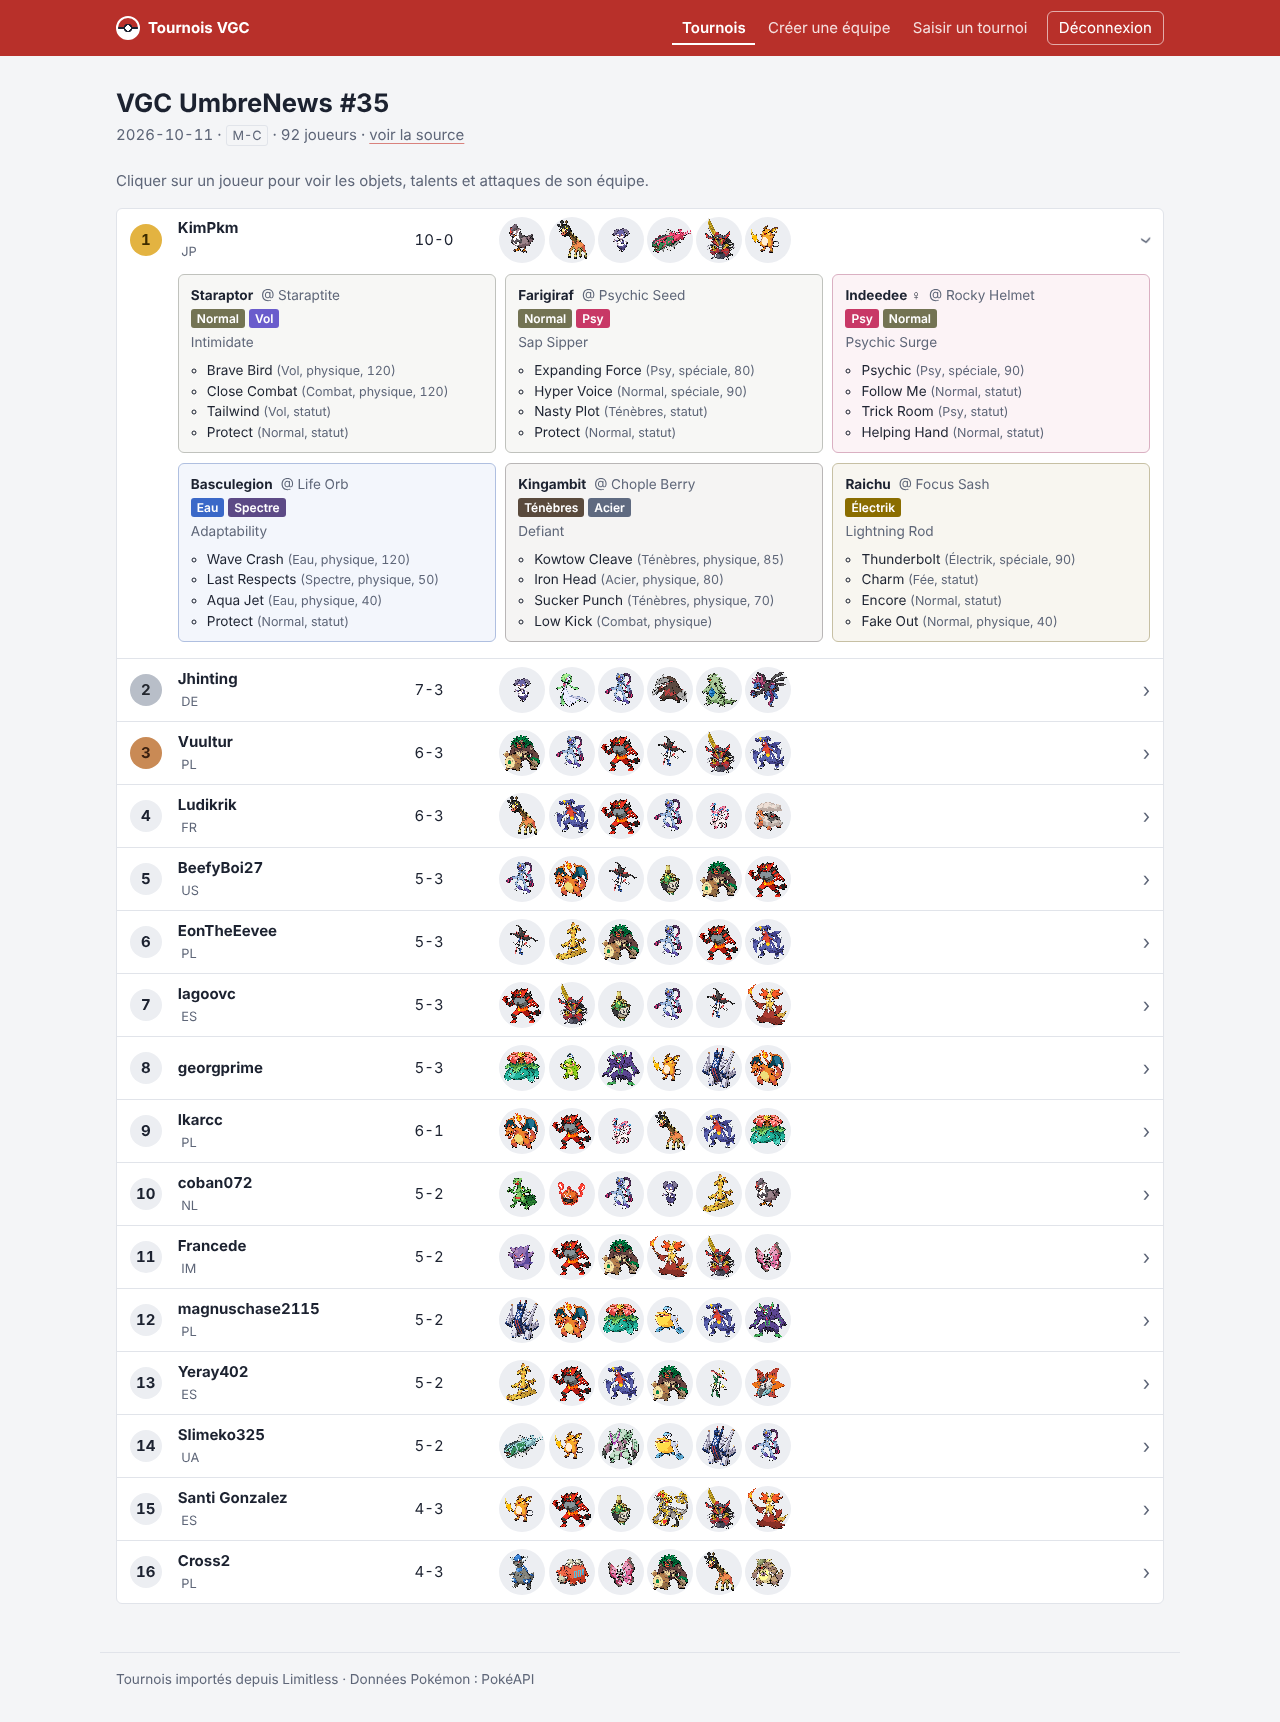
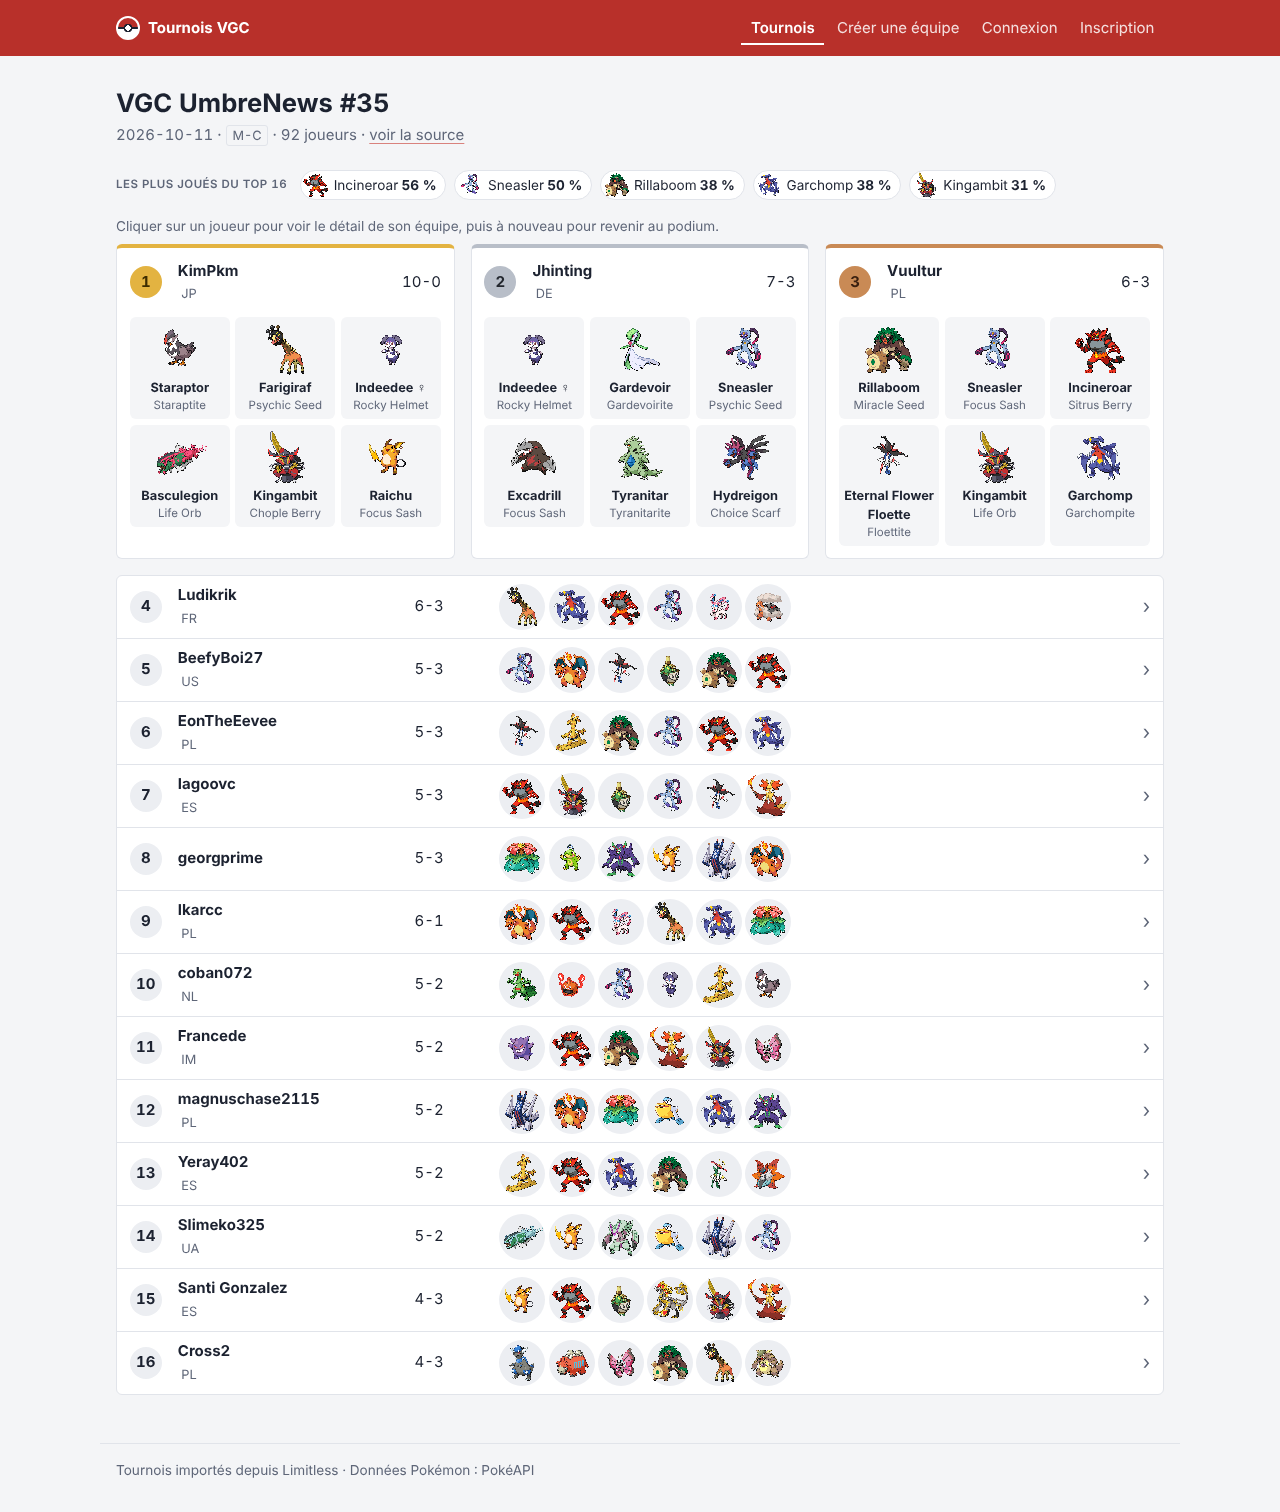
Page tournoi : podium en cartes, Pokémon les plus joués, sprite dans le détail
- Les trois premiers s'affichent en cartes (sprite, nom, objet) tant
  qu'aucun joueur n'est déplié ; en déplier un repasse en liste unique,
  le refermer revient au podium (CSS :has, sans JavaScript).
- Bande compacte des 5 Pokémon les plus joués (part des équipes
  publiées, un Pokémon compte une fois par équipe).
- Chaque fiche dépliée montre le sprite du Pokémon à côté de ses détails.

Claude-Session: https://claude.ai/code/session_01PQWKmLo6vMcy11LaXKiBe6

diff --git a/services/frontend/app/static/style.css b/services/frontend/app/static/style.css
@@ -80,7 +80,7 @@ main.inner { padding-block: 2rem 3rem; }
 
 /* Tableaux */
 /* Surfaces blanches bordées (tableaux, formulaires, classement) */
-.scroll, .panel, .standings { background: var(--surface); border: 1px solid var(--line); border-radius: var(--radius); }
+.scroll, .panel, .podium, .standings { background: var(--surface); border: 1px solid var(--line); border-radius: var(--radius); }
 .scroll { overflow-x: auto; }
 table { width: 100%; border-collapse: collapse; }
 th, td { padding: 0.55rem 0.8rem; border-bottom: 1px solid var(--line); text-align: left; vertical-align: middle; }
@@ -131,22 +131,45 @@ fieldset label { flex-direction: row; align-items: center; gap: 0.5rem; font-wei
 .flag { vertical-align: -1px; border-radius: 2px; }
 
 /* Classement d'un tournoi : une ligne par joueur, le détail des équipes se déplie */
-.standings { list-style: none; margin: 0; padding: 0; }
-.standings > li { border-bottom: 1px solid var(--line); }
-.standings > li:last-child { border-bottom: 0; }
-.standings summary, .standings .row {
+.podium, .standings { list-style: none; margin: 0; padding: 0; }
+:is(.podium, .standings) > li { border-bottom: 1px solid var(--line); }
+:is(.podium, .standings) > li:last-child { border-bottom: 0; }
+:is(.podium, .standings) :is(summary, .row) {
   display: grid; grid-template-columns: 2.2rem minmax(9rem, 14rem) 4.5rem 1fr 1rem; align-items: center; gap: 0.8rem;
   padding: 0.5rem 0.8rem; list-style: none;
 }
-.standings summary { cursor: pointer; }
-.standings summary::-webkit-details-marker { display: none; }
-.standings summary::after { content: "›"; color: var(--muted); font-size: 1.2rem; transition: transform 0.15s; justify-self: end; }
-.standings details[open] summary::after { transform: rotate(90deg); }
-.standings summary:hover { background: color-mix(in srgb, var(--bg) 60%, var(--surface)); }
+.results summary { cursor: pointer; }
+.results summary::-webkit-details-marker { display: none; }
+.results summary::after { content: "›"; color: var(--muted); font-size: 1.2rem; transition: transform 0.15s; justify-self: end; }
+.results details[open] summary::after { transform: rotate(90deg); }
+.results summary:hover { background: color-mix(in srgb, var(--bg) 60%, var(--surface)); }
+.cards { display: none; }
+/* Dès qu'un joueur est déplié, podium et suite ne forment plus qu'une liste */
+.results:has(details[open]) .podium { border-bottom: 1px solid var(--line); border-radius: var(--radius) var(--radius) 0 0; }
+.results:has(details[open]) .podium + .standings { border-top: 0; border-radius: 0 0 var(--radius) var(--radius); }
+/* Sinon (vue par défaut) : les trois premiers en cartes avec leur équipe */
+.results:not(:has(details[open])) { display: flex; flex-direction: column; gap: 1rem; }
+.results:not(:has(details[open])) .podium { display: grid; grid-template-columns: repeat(3, minmax(0, 1fr)); gap: 1rem; background: none; border: 0; }
+.results:not(:has(details[open])) .podium > li { background: var(--surface); border: 1px solid var(--line); border-top: 4px solid var(--medal); border-radius: var(--radius); overflow: hidden; }
+.results:not(:has(details[open])) .podium :is(summary, .row) { grid-template-columns: 2.2rem 1fr auto; padding: 0.7rem 0.8rem; }
+.results:not(:has(details[open])) .podium summary::after,
+.results:not(:has(details[open])) .podium summary .roster { display: none; }
+.results:not(:has(details[open])) .podium .roster { grid-column: 1 / -1; }
+.results:not(:has(details[open])) .podium .cards { display: grid; grid-column: 1 / -1; grid-template-columns: repeat(3, minmax(0, 1fr)); gap: 0.35rem; }
+.cards > span { display: flex; flex-direction: column; align-items: center; padding: 0.3rem 0.2rem; border-radius: var(--radius); background: var(--bg); text-align: center; min-width: 0; }
+.cards strong { font-size: 0.8rem; overflow-wrap: anywhere; }
+.cards small { font-size: 0.72rem; color: var(--muted); overflow-wrap: anywhere; }
+.hint { margin: 0 0 0.5rem; font-size: 0.85rem; }
+/* Pokémon les plus joués : une seule bande de pastilles */
+.usage { display: flex; flex-wrap: wrap; align-items: center; gap: 0.35rem 0.5rem; margin: 0 0 1rem; font-size: 0.85rem; }
+.usage-title { font-size: 0.72rem; font-weight: 600; text-transform: uppercase; letter-spacing: 0.04em; color: var(--muted); margin-right: 0.3rem; }
+.usage > span:not(.usage-title) { display: inline-flex; align-items: center; gap: 0.2rem; padding: 0 0.55rem 0 0.1rem; border: 1px solid var(--line); border-radius: 999px; background: var(--surface); }
+.mini { image-rendering: pixelated; }
 .place {
   display: grid; place-items: center; width: 2rem; height: 2rem; border-radius: 50%;
   font-weight: 700; background: var(--head);
 }
+.p1 { --medal: var(--gold); } .p2 { --medal: var(--silver); } .p3 { --medal: var(--bronze); }
 .p1 .place { background: var(--gold); color: #3d2c00; }
 .p2 .place { background: var(--silver); color: #23272e; }
 .p3 .place { background: var(--bronze); color: #3a2010; }
@@ -159,7 +182,9 @@ fieldset label { flex-direction: row; align-items: center; gap: 0.5rem; font-wei
 
 .sets { display: grid; grid-template-columns: repeat(auto-fill, minmax(15rem, 1fr)); gap: 0.6rem; padding: 0.2rem 0.8rem 1rem 3.8rem; }
 :where(.mon) { --t: var(--muted); } /* teinte par défaut, la classe t-<type> l'emporte */
-.mon { border: 1px solid color-mix(in srgb, var(--t) 30%, var(--line)); background: color-mix(in srgb, var(--t) 6%, var(--surface)); border-radius: var(--radius); padding: 0.6rem 0.75rem; font-size: 0.85rem; display: flex; flex-direction: column; gap: 0.25rem; }
+.mon { border: 1px solid color-mix(in srgb, var(--t) 30%, var(--line)); background: color-mix(in srgb, var(--t) 6%, var(--surface)); border-radius: var(--radius); padding: 0.6rem 0.75rem; font-size: 0.85rem; display: flex; align-items: flex-start; gap: 0.6rem; }
+.mon-sprite { border-radius: 50%; background: color-mix(in srgb, var(--t) 12%, var(--surface)); }
+.mon-body { display: flex; flex-direction: column; gap: 0.25rem; min-width: 0; }
 .mon-head { display: flex; flex-wrap: wrap; align-items: baseline; gap: 0.2rem 0.5rem; }
 .moves { margin: 0.2rem 0 0; padding-left: 1rem; }
 .moves .meta { font-size: 0.78rem; }
@@ -199,7 +224,8 @@ fieldset label { flex-direction: row; align-items: center; gap: 0.5rem; font-wei
 form:has(input[value="winner"]:checked) .entry tbody tr:not(:first-child) { opacity: 0.35; }
 
 @media (max-width: 640px) {
-  .standings summary, .standings .row { grid-template-columns: 2rem 1fr auto 1rem; }
+  :is(.podium, .standings) :is(summary, .row) { grid-template-columns: 2rem 1fr auto 1rem; }
+  .results:not(:has(details[open])) .podium { grid-template-columns: 1fr; }
   .roster { grid-column: 2 / -1; grid-row: 2; }
   .roster span, .roster .sprite { width: 40px; height: 40px; } /* 6 sprites sur une ligne */
   .sets { padding-left: 0.8rem; }

diff --git a/services/frontend/app/templates/tournament.html b/services/frontend/app/templates/tournament.html
@@ -1,6 +1,6 @@
 {% extends "base.html" %}
 {% block title %}{{ t.name }}{% endblock %}
-{% macro row(s) %}
+{% macro row(s, card) %}
         <span class="place">{{ s.placement }}</span>
         {% set flag = s.country | flag %}
         <span class="player"><strong>{{ s.player }}</strong>{% if s.country %}<span class="country">{% if flag %}<img class="flag" src="{{ flag }}" alt="" width="16" loading="lazy"> {% endif %}{{ s.country }}</span>{% endif %}</span>
@@ -12,6 +12,40 @@
           <em class="meta">équipe non publiée par l'organisateur</em>
         {% endfor %}
         </span>
+        {% if card and s.team %}
+        <span class="cards">
+        {% for p in s.team %}
+          <span>{% if p.sprite %}<img class="sprite big" src="{{ p.sprite }}" alt="" width="56" height="56" loading="lazy">{% endif %}<strong>{{ p.name }}</strong>{% if p.item %}<small>{{ p.item }}</small>{% endif %}</span>
+        {% endfor %}
+        </span>
+        {% endif %}
+{% endmacro %}
+{% macro player(s, card=false) %}
+  <li{% if s.placement and s.placement <= 3 %} class="p{{ s.placement }}"{% endif %}>
+  {% if s.team %}
+    {# name : un seul joueur déplié à la fois (navigateurs récents) #}
+    <details name="joueur">
+      <summary>{{ row(s, card) }}</summary>
+      <div class="sets">
+      {% for p in s.team %}
+        <div class="mon{% if p.types %} t-{{ p.types[0] }}{% endif %}">
+          {% if p.sprite %}<img class="sprite mon-sprite" src="{{ p.sprite }}" alt="" width="64" height="64" loading="lazy">{% endif %}
+          <div class="mon-body">
+          <div class="mon-head"><strong>{{ p.name }}</strong>{% if p.item %} <span class="item">@ {{ p.item }}</span>{% endif %}</div>
+          {% if p.types %}<div class="types">{% for ty in p.types %}<span class="type t-{{ ty }}">{{ ty | type_fr }}</span>{% endfor %}</div>{% endif %}
+          {% if p.ability %}<div class="ability">{{ p.ability }}</div>{% endif %}
+          {% if p.moves %}<ul class="moves">{% for m in p.moves %}
+            <li>{{ m.name }}{% if m.type %} <span class="meta">({{ m.type | type_fr }}, {{ m.category | category_fr }}{% if m.power %}, {{ m.power }}{% endif %})</span>{% endif %}</li>
+          {% endfor %}</ul>{% endif %}
+          </div>
+        </div>
+      {% endfor %}
+      </div>
+    </details>
+  {% else %}
+    <div class="row">{{ row(s, card) }}</div>
+  {% endif %}
+  </li>
 {% endmacro %}
 {% block content %}
 <h1>{{ t.name }}</h1>
@@ -19,30 +53,17 @@
   {{ t.date }} · <span class="tag">{{ t.format }}</span>{% if t.player_count %} · {{ t.player_count }} joueurs{% endif %}
   {% if t.source_url %} · <a href="{{ t.source_url }}">voir la source</a>{% endif %}
 </p>
-<p class="meta">Cliquer sur un joueur pour voir les objets, talents et attaques de son équipe.</p>
-<ol class="standings">
-{% for s in t.standings %}
-  <li{% if s.placement and s.placement <= 3 %} class="p{{ s.placement }}"{% endif %}>
-  {% if s.team %}
-    <details>
-      <summary>{{ row(s) }}</summary>
-      <div class="sets">
-      {% for p in s.team %}
-        <div class="mon{% if p.types %} t-{{ p.types[0] }}{% endif %}">
-          <div class="mon-head"><strong>{{ p.name }}</strong>{% if p.item %} <span class="item">@ {{ p.item }}</span>{% endif %}</div>
-          {% if p.types %}<div class="types">{% for ty in p.types %}<span class="type t-{{ ty }}">{{ ty | type_fr }}</span>{% endfor %}</div>{% endif %}
-          {% if p.ability %}<div class="ability">{{ p.ability }}</div>{% endif %}
-          {% if p.moves %}<ul class="moves">{% for m in p.moves %}
-            <li>{{ m.name }}{% if m.type %} <span class="meta">({{ m.type | type_fr }}, {{ m.category | category_fr }}{% if m.power %}, {{ m.power }}{% endif %})</span>{% endif %}</li>
-          {% endfor %}</ul>{% endif %}
-        </div>
-      {% endfor %}
-      </div>
-    </details>
-  {% else %}
-    <div class="row">{{ row(s) }}</div>
-  {% endif %}
-  </li>
-{% endfor %}
-</ol>
+{% if usage.top %}
+<p class="usage">
+  <span class="usage-title">Les plus joués du top {{ t.standings | length }}{% if usage.teams < t.standings | length %} ({{ usage.teams }} équipes publiées){% endif %}</span>
+  {% for u in usage.top %}<span>{% if u.sprite %}<img class="mini" src="{{ u.sprite }}" alt="" width="28" height="28" loading="lazy">{% endif %}{{ u.name }} <strong>{{ u.pct }} %</strong></span>{% endfor %}
+</p>
+{% endif %}
+{% set podium = t.standings | selectattr("placement", "in", [1, 2, 3]) | list %}
+{% set rest = t.standings | rejectattr("placement", "in", [1, 2, 3]) | list %}
+{% if podium %}<p class="meta hint">Cliquer sur un joueur pour voir le détail de son équipe, puis à nouveau pour revenir au podium.</p>{% endif %}
+<div class="results">
+  {% if podium %}<ol class="podium">{% for s in podium %}{{ player(s, true) }}{% endfor %}</ol>{% endif %}
+  {% if rest %}<ol class="standings">{% for s in rest %}{{ player(s) }}{% endfor %}</ol>{% endif %}
+</div>
 {% endblock %}

diff --git a/services/frontend/tests/test_pages.py b/services/frontend/tests/test_pages.py
@@ -141,6 +141,50 @@ def test_detail_affiche_le_classement_et_l_equipe(api):
     assert '<li class="p1">' in resp.text  # médaille d'or du 1er
     assert '<div class="mon t-normal">' in resp.text  # carte teintée par le 1er type
     assert resp.text.count('class="sprite"') == 1  # Indeedee n'a pas de sprite
+    assert resp.text.count('class="sprite mon-sprite"') == 1  # idem dans le détail
+    assert '<ol class="podium">' in resp.text  # le 1er est mis en avant en carte
+    assert '<ol class="standings">' not in resp.text  # personne d'autre
+    assert (
+        "Les plus joués du top 1" in resp.text and "<strong>100 %</strong>" in resp.text
+    )
+
+
+def test_usage_compte_les_equipes_connues():
+    mon = lambda n: {"name": n, "sprite": None}
+    standings = [
+        {"team": [mon("Incineroar"), mon("Rillaboom")]},
+        {"team": [mon("Incineroar")]},
+        {"team": []},  # équipe non publiée : ignorée
+        {},  # sans clé team
+    ]
+    u = main.usage(standings)
+    assert u["teams"] == 2
+    assert u["top"] == [
+        {"name": "Incineroar", "sprite": None, "pct": 100},
+        {"name": "Rillaboom", "sprite": None, "pct": 50},
+    ]
+    assert main.usage([{"team": []}]) == {"teams": 0, "top": []}
+    # doublon dans une équipe compté une fois ; premier sprite connu conservé
+    doublon = [{"team": [mon("Urshifu") | {"sprite": "u.png"}, mon("Urshifu")]}]
+    assert main.usage(doublon)["top"] == [
+        {"name": "Urshifu", "sprite": "u.png", "pct": 100}
+    ]
+
+
+def test_podium_puis_suite_du_classement(monkeypatch):
+    premier = TOURNAMENT["standings"][0]
+    cinq = [premier | {"placement": i, "player": f"J{i}"} for i in range(1, 5)]
+    abandon = premier | {"placement": None, "player": "Abandon", "team": []}
+    data = TOURNAMENT | {"standings": [*cinq, abandon]}
+    responses = {"http://api/api/tournaments/1?top=16": data}
+    monkeypatch.setattr(main.urllib.request, "urlopen", fake_urlopen(responses))
+    html = client.get("/tournaments/1").text
+    podium, suite = html.split('<ol class="standings">')
+    assert all(f"<strong>J{i}</strong>" in podium for i in (1, 2, 3))
+    assert "<strong>J4</strong>" in suite and "<strong>Abandon</strong>" in suite
+    assert '<img class="sprite big"' in podium and "<small>Staraptite</small>" in podium
+    assert '<img class="sprite big"' not in suite  # cartes réservées au podium
+    assert "Les plus joués du top 5 (4 équipes publiées)" in html
 
 
 def test_equipe_absente_est_signalee(monkeypatch):
@@ -151,7 +195,7 @@ def test_equipe_absente_est_signalee(monkeypatch):
     monkeypatch.setattr(main.urllib.request, "urlopen", fake_urlopen(responses))
     html = client.get("/tournaments/1").text
     assert "équipe non publiée" in html
-    assert "<details>" not in html  # rien à déplier
+    assert "<details" not in html  # rien à déplier
 
 
 def test_joueur_sans_place_ne_plante_pas(monkeypatch):

diff --git a/services/frontend/app/main.py b/services/frontend/app/main.py
@@ -3,6 +3,7 @@ import os
 import re
 import urllib.error
 import urllib.request
+from collections import Counter
 from pathlib import Path
 from typing import Annotated
 from urllib.parse import quote, urlencode, urlsplit
@@ -210,13 +211,27 @@ async def new_tournament(request: Request):
     return page(error_message(body), 422)
 
 
+def usage(standings: list[dict], limit: int = 5) -> dict:
+    """Pokémon les plus joués : part (en %) des équipes connues qui l'alignent."""
+    teams = [s.get("team") for s in standings if s.get("team")]
+    # set : un Pokémon compte une fois par équipe, la part ne dépasse jamais 100 %
+    counts = Counter(name for team in teams for name in {p["name"] for p in team})
+    sprites = {}
+    for p in (p for team in teams for p in team):
+        sprites[p["name"]] = sprites.get(p["name"]) or p.get("sprite")
+    top = [
+        {"name": n, "sprite": sprites[n], "pct": round(100 * c / len(teams))}
+        for n, c in counts.most_common(limit)
+    ]
+    return {"teams": len(teams), "top": top}
+
+
 @app.get("/tournaments/{tournament_id}", response_class=HTMLResponse)
 def tournament(request: Request, tournament_id: int):
     """Détail d'un tournoi : top 16 et équipes (l'API a tous les joueurs, on ne demande que ça)."""
+    t = api_get(f"/api/tournaments/{tournament_id}?top=16")
     return templates.TemplateResponse(
-        request,
-        "tournament.html",
-        {"t": api_get(f"/api/tournaments/{tournament_id}?top=16")},
+        request, "tournament.html", {"t": t, "usage": usage(t["standings"])}
     )
 
 
